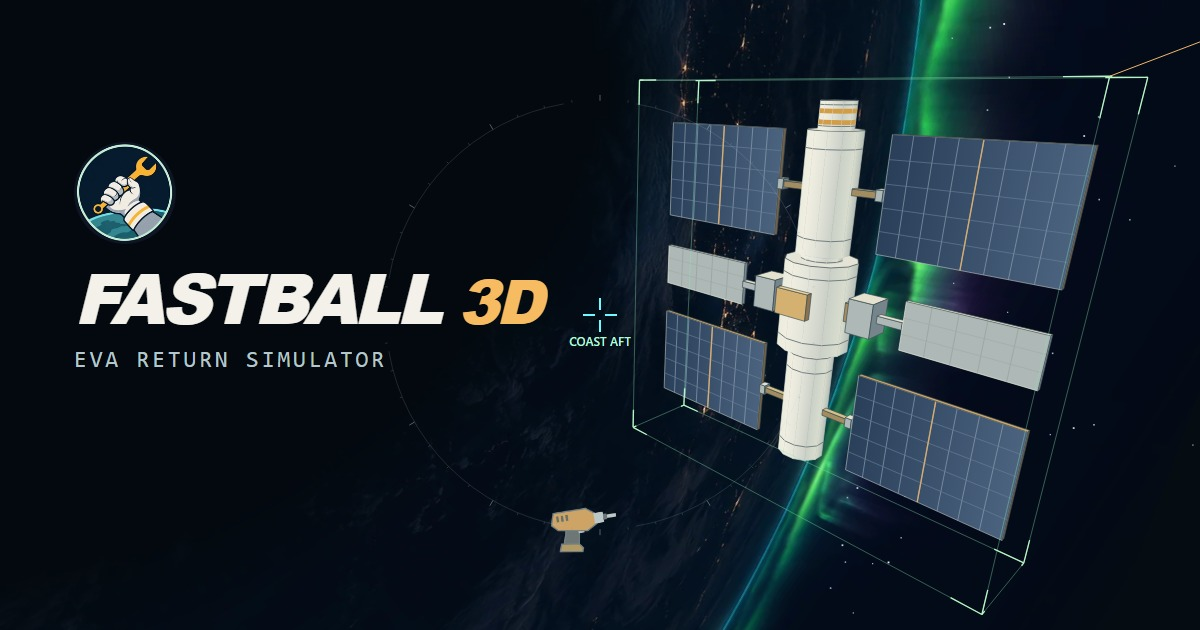
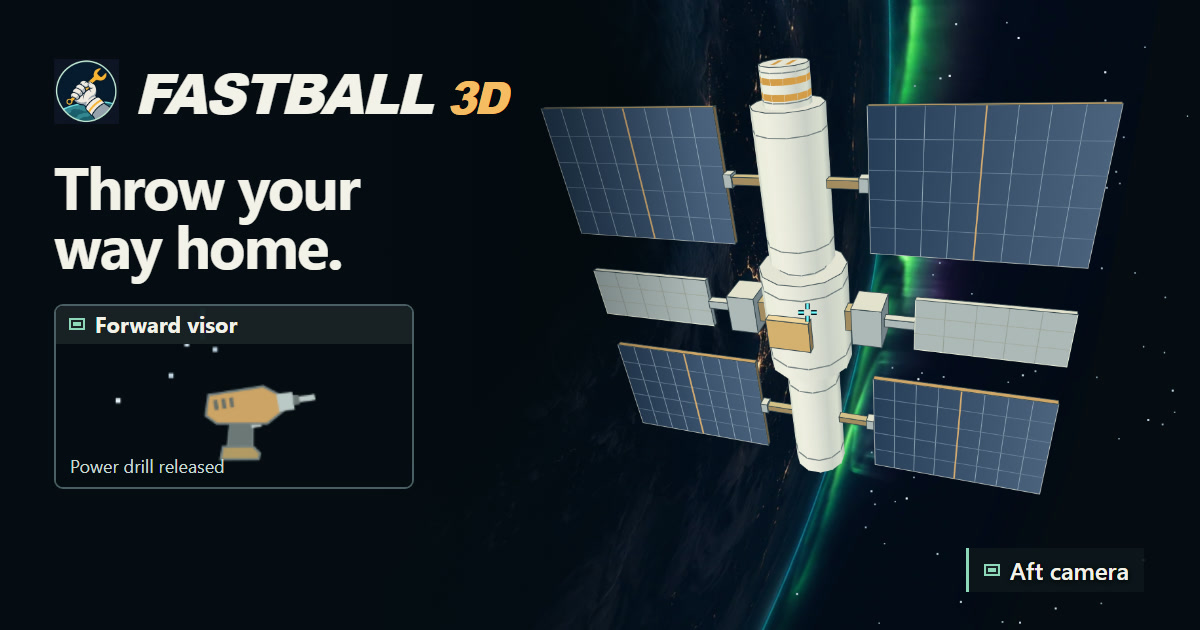
Show both in-game cameras on the v0.5 social preview

Changed region(s): [[0.0308, 0.0, 0.9558, 1.0], [0.0308, 0.2111, 0.4625, 0.7841], [0.4317, 0.7841, 0.5242, 0.8746]]

diff --git a/index.html b/index.html
@@ -3,23 +3,23 @@
   <head>
     <meta charset="utf-8">
     <meta name="author" content="AvaniNet (avani@avaninet.com)">
-    <meta name="description" content="Ten minutes of oxygen. Nine tools. Throw your gear to change your orbit and bring Capt. Tommi Dylan back to the station in this browser game by AvaniNet.">
+    <meta name="description" content="Nine tools. Ten minutes of air. Throw your gear to propel a stranded astronaut back to the station.">
     <link rel="canonical" href="https://avaninet.github.io/fastball-3d/">
     <meta property="og:type" content="website">
     <meta property="og:site_name" content="AvaniNet">
     <meta property="og:url" content="https://avaninet.github.io/fastball-3d/">
-    <meta property="og:title" content="Fastball 3D · EVA return simulator">
-    <meta property="og:description" content="Ten minutes of oxygen. Nine tools. Throw your gear to change your orbit and bring Capt. Tommi Dylan back to the station in this browser game by AvaniNet.">
-    <meta property="og:image" content="https://avaninet.github.io/fastball-3d/assets/fastball-3d-preview-v03.jpg">
+    <meta property="og:title" content="Fastball 3D v0.5 · Throw your way home">
+    <meta property="og:description" content="Nine tools. Ten minutes of air. Throw your gear to propel a stranded astronaut back to the station.">
+    <meta property="og:image" content="https://avaninet.github.io/fastball-3d/assets/fastball-3d-preview-v03.jpg?v=0.5">
     <meta property="og:image:type" content="image/jpeg">
     <meta property="og:image:width" content="1200">
     <meta property="og:image:height" content="630">
-    <meta property="og:image:alt" content="Fastball 3D mission patch and title beside a visor view of a yellow power drill floating toward the space station above Earth's green aurora.">
+    <meta property="og:image:alt" content="Fastball 3D. Throw your way home. A released drill floats in the forward visor. The aft camera shows the station above Earth's green aurora.">
     <meta name="twitter:card" content="summary_large_image">
-    <meta name="twitter:title" content="Fastball 3D · EVA return simulator">
-    <meta name="twitter:description" content="Ten minutes of oxygen. Nine tools. Throw your gear to change your orbit and bring Capt. Tommi Dylan back to the station in this browser game by AvaniNet.">
-    <meta name="twitter:image" content="https://avaninet.github.io/fastball-3d/assets/fastball-3d-preview-v03.jpg">
-    <meta name="twitter:image:alt" content="Fastball 3D mission patch and title beside a visor view of a yellow power drill floating toward the space station above Earth's green aurora.">
+    <meta name="twitter:title" content="Fastball 3D v0.5 · Throw your way home">
+    <meta name="twitter:description" content="Nine tools. Ten minutes of air. Throw your gear to propel a stranded astronaut back to the station.">
+    <meta name="twitter:image" content="https://avaninet.github.io/fastball-3d/assets/fastball-3d-preview-v03.jpg?v=0.5">
+    <meta name="twitter:image:alt" content="Fastball 3D. Throw your way home. A released drill floats in the forward visor. The aft camera shows the station above Earth's green aurora.">
     <meta name="viewport" content="width=device-width,initial-scale=1">
     <meta http-equiv="Content-Security-Policy" content="default-src 'none'; script-src 'sha256-rQWsIIc5a1zX9v2VynWbQND32AS93uhQhrdBQtM+eTQ=' 'sha256-7KEzK6Xfhn4WvoVILtUzqFeQ0/jD884M1N3nU/IRssU=' 'sha256-Un+2ov4Yfbsv7r9mDJ0ZAigLsN0YY966ynujcPihM1Q=' 'sha256-2mZKzOnvxieMtTC6IuoSDWBwXXrI4KldF7tHMCPeUqY=' 'sha256-mqJmgBTQjL+vG0dqRBoQxQX0tjlSPwByUnxXTU+LIdU=' 'sha256-MtlWEn9BalGNdldfoZXyPxv7Um7OsTDM6yEBMkLz4J8=' 'sha256-3J+GrDcI2C3PN3kvy0oSms5+4v/iAtkbOlnrhAjQ12I=' 'sha256-P860sML909h7koNlAdRUyy/kCyoH1vbwJaIGkDCuAk0=' 'sha256-KCk+MwKJsAjPa/eHFcl+g67DqFGhBHOkPmeR4BZXvbs=' 'sha256-AbrC4+BfIYzv7M7re3WI9XNmIcavpn6zUQ6D9YGPdTU=' 'sha256-I+4pmh5Sw2y8tZ8puIEBevo/vIkqElyqohCsy4Zo3V4=' 'sha256-nOaiHRT9CKpEUon9G5TfSKowh871Sjxqhb+YJzFtcWw=' 'sha256-zIIXFgRgJPRtpupIo6JCysqguOGgTECwDr/IiHpM7GQ=' 'sha256-CF7JEBwMG77CYV0rFnAu47QeJYGIxeEihKO47x2reEI='; style-src 'sha256-b0JrWCfCDT+XZ1icqdKwsVAO6VlZLmjbcpAueQ2i0Q0='; img-src data: blob:; base-uri 'none'; form-action 'none'">
     <link rel="icon" href="data:,">

diff --git a/src/visor.html b/src/visor.html
@@ -3,23 +3,23 @@
   <head>
     <meta charset="utf-8">
     <meta name="author" content="AvaniNet (avani@avaninet.com)">
-    <meta name="description" content="Ten minutes of oxygen. Nine tools. Throw your gear to change your orbit and bring Capt. Tommi Dylan back to the station in this browser game by AvaniNet.">
+    <meta name="description" content="Nine tools. Ten minutes of air. Throw your gear to propel a stranded astronaut back to the station.">
     <link rel="canonical" href="https://avaninet.github.io/fastball-3d/">
     <meta property="og:type" content="website">
     <meta property="og:site_name" content="AvaniNet">
     <meta property="og:url" content="https://avaninet.github.io/fastball-3d/">
-    <meta property="og:title" content="Fastball 3D · EVA return simulator">
-    <meta property="og:description" content="Ten minutes of oxygen. Nine tools. Throw your gear to change your orbit and bring Capt. Tommi Dylan back to the station in this browser game by AvaniNet.">
-    <meta property="og:image" content="https://avaninet.github.io/fastball-3d/assets/fastball-3d-preview-v03.jpg">
+    <meta property="og:title" content="Fastball 3D v__VERSION__ · Throw your way home">
+    <meta property="og:description" content="Nine tools. Ten minutes of air. Throw your gear to propel a stranded astronaut back to the station.">
+    <meta property="og:image" content="https://avaninet.github.io/fastball-3d/assets/fastball-3d-preview-v03.jpg?v=__VERSION__">
     <meta property="og:image:type" content="image/jpeg">
     <meta property="og:image:width" content="1200">
     <meta property="og:image:height" content="630">
-    <meta property="og:image:alt" content="Fastball 3D mission patch and title beside a visor view of a yellow power drill floating toward the space station above Earth's green aurora.">
+    <meta property="og:image:alt" content="Fastball 3D. Throw your way home. A released drill floats in the forward visor. The aft camera shows the station above Earth's green aurora.">
     <meta name="twitter:card" content="summary_large_image">
-    <meta name="twitter:title" content="Fastball 3D · EVA return simulator">
-    <meta name="twitter:description" content="Ten minutes of oxygen. Nine tools. Throw your gear to change your orbit and bring Capt. Tommi Dylan back to the station in this browser game by AvaniNet.">
-    <meta name="twitter:image" content="https://avaninet.github.io/fastball-3d/assets/fastball-3d-preview-v03.jpg">
-    <meta name="twitter:image:alt" content="Fastball 3D mission patch and title beside a visor view of a yellow power drill floating toward the space station above Earth's green aurora.">
+    <meta name="twitter:title" content="Fastball 3D v__VERSION__ · Throw your way home">
+    <meta name="twitter:description" content="Nine tools. Ten minutes of air. Throw your gear to propel a stranded astronaut back to the station.">
+    <meta name="twitter:image" content="https://avaninet.github.io/fastball-3d/assets/fastball-3d-preview-v03.jpg?v=__VERSION__">
+    <meta name="twitter:image:alt" content="Fastball 3D. Throw your way home. A released drill floats in the forward visor. The aft camera shows the station above Earth's green aurora.">
     <meta name="viewport" content="width=device-width,initial-scale=1">
     <meta http-equiv="Content-Security-Policy" content="default-src 'none'; script-src __SCRIPT_HASHES__; style-src __STYLE_HASHES__; img-src data: blob:; base-uri 'none'; form-action 'none'">
     <link rel="icon" href="data:,">
